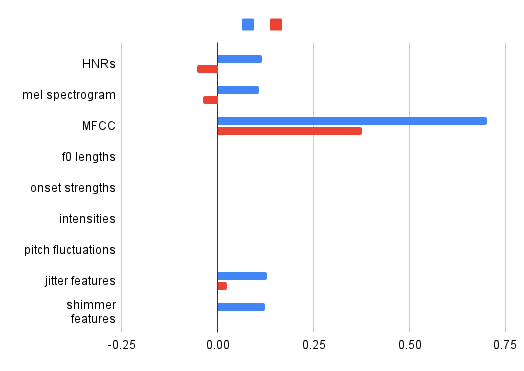
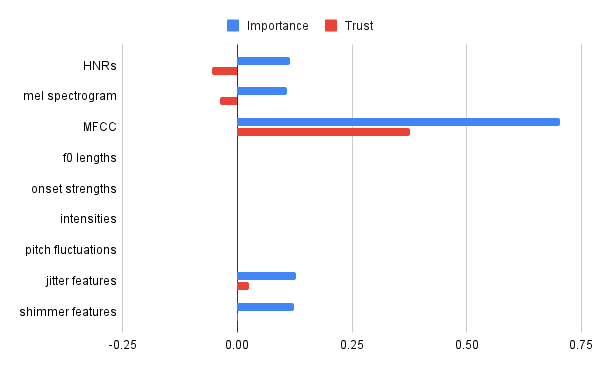
add legends to explanation figures / add referenced to the figures in the text

diff --git a/draft.tex b/draft.tex
@@ -530,7 +530,7 @@
 			\includegraphics[width=0.7\textwidth]{images/exp_cterm.png}
 			\caption{Graphical representation of the aggregated explanation results of the best
 			performing model}
-			\label{figure:exp_cterm}
+			\label{fig:exp_cterm}
 		\end{figure}
 		\begin{table}[htbp]
 			\centering
@@ -556,7 +556,7 @@
 			\includegraphics[width=0.7\textwidth]{images/exp_mpf.png}
 			\caption{Graphical representation of the aggregated explanation results of model with
 			expanded pitch fluctuation features.}
-			\label{figure:exp_mpf}
+			\label{fig:exp_mpf}
 		\end{figure}
 		\begin{table}[htbp]
 			\centering
@@ -582,14 +582,16 @@
 			\includegraphics[width=0.7\textwidth]{images/exp_mpf_cterm.png}
 			\caption{Graphical representation of the aggregated explanation results of the model
 			with expanded pitch fluctuation features and a terminus with three hidden layers.}
-			\label{figure:exp_mpf_cterm}
+			\label{fig:exp_mpf_cterm}
 		\end{figure}
 		In order to obtain a full picture of the quality of the explanations generated by this
 		method, we have used selected two models from the last section and generated explanations
 		on the first 500 samples of the testing data. We then summarized the explanations generated
 		using both of the previously introduced metrics. A summary of the results of both metrics
 		summarized by the feature is presented in tables \ref{table:exp-results-cterm},
-		\ref{table:exp-results-more-pitch-flucs} and \ref{table:exp-results-mpf-cterm}. 
+		\ref{table:exp-results-more-pitch-flucs} and \ref{table:exp-results-mpf-cterm}. The same
+		statistics are also represented graphically in the figures \ref{fig:exp_cterm},
+		\ref{fig:exp_mpf} and \ref{fig:exp_mpf_cterm} respectively.
 		\subsubsection{Best-Performing Model}
 		Measuring by both metrics, the MFCCs had the most positive and the most correct influence
 		on the classification results of the model, With the jitter features as a distant second
